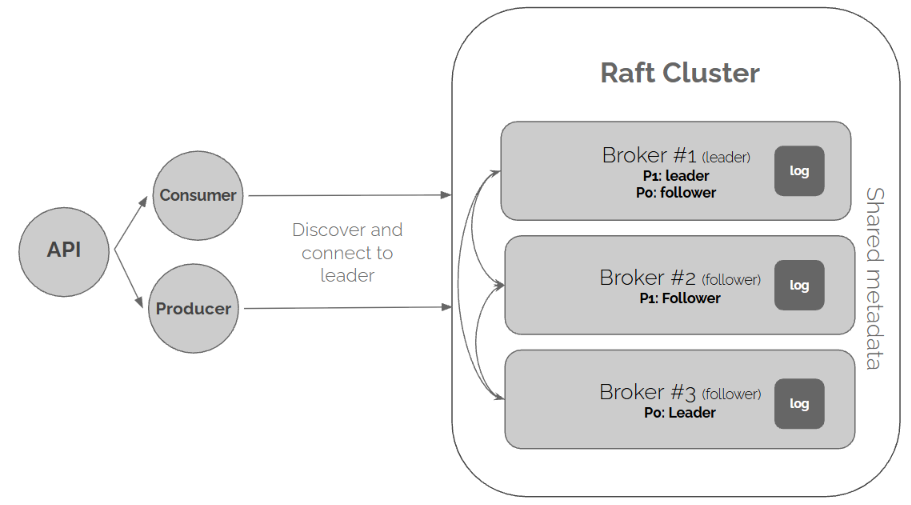
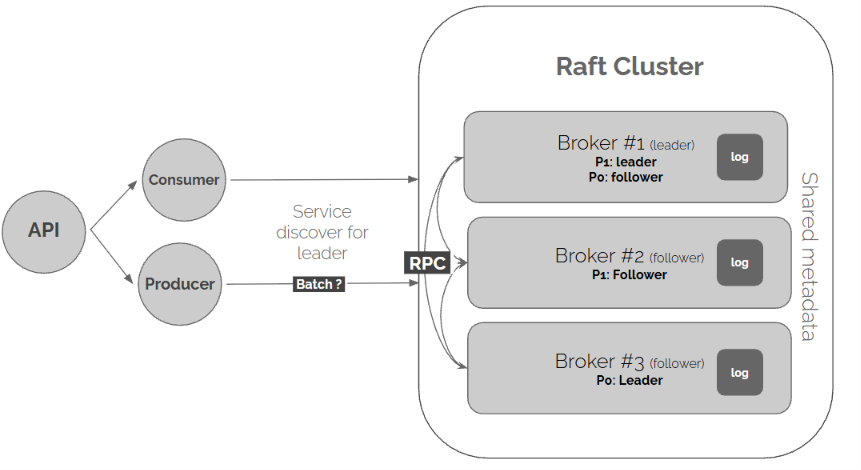
Improving report

diff --git a/report.md b/report.md
@@ -41,8 +41,8 @@ It stores the messages. For each partition, one broker is the leader and another
 
 #### Flow of a publish
 
-1. The producer asks a broker who is the leader of the partition.
-2. It sends the message to the leader.
+1. The producer asks a broker who is the leader of the partition (Service Discovery).
+2. It sends the message (or batch of messages) to the leader (RPC).
 3. The leader picks the next offset for the message.
 4. The leader sends the message to the follower and waits for its ack.
 5. When the follower has acked, the leader writes the message in its own log.
@@ -50,8 +50,8 @@ It stores the messages. For each partition, one broker is the leader and another
 
 #### Flow of a consume
 
-1. The consumer asks a broker who is the leader of the partition.
-2. It sends a fetch request to the leader with its current offset.
+1. The consumer asks a broker who is the leader of the partition (Service Discovery).
+2. It sends a fetch request to the leader with its current offset (RPC).
 3. The leader reads the messages from this offset in its log.
 4. The leader answers with the messages and the next offset.
 5. The consumer shows the messages and saves the next offset for later.
@@ -97,6 +97,7 @@ Leader. It keeps it's own offset to know which message has already been read.
 - **Deployment:** Docker
 
 To implement raft, it use the **`hashicorp/raft`** library.
+To interact between brokers, we use **RPC**.
 
 ## 5. Evaluation Metrics
 